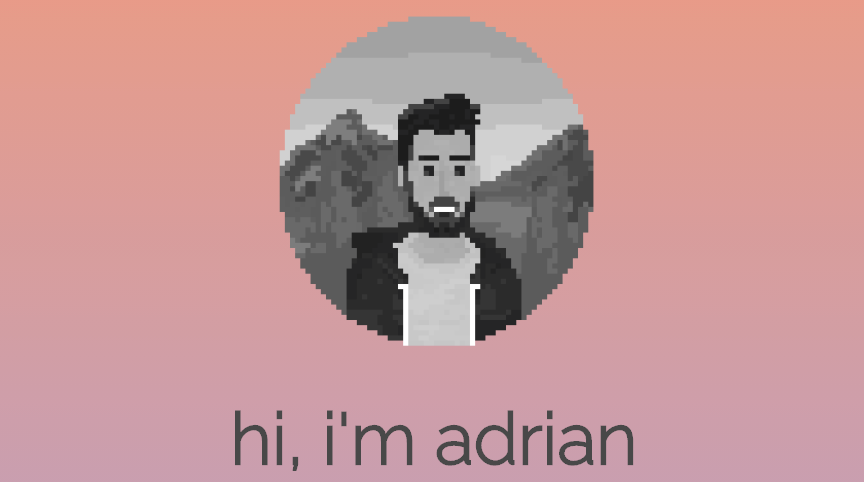
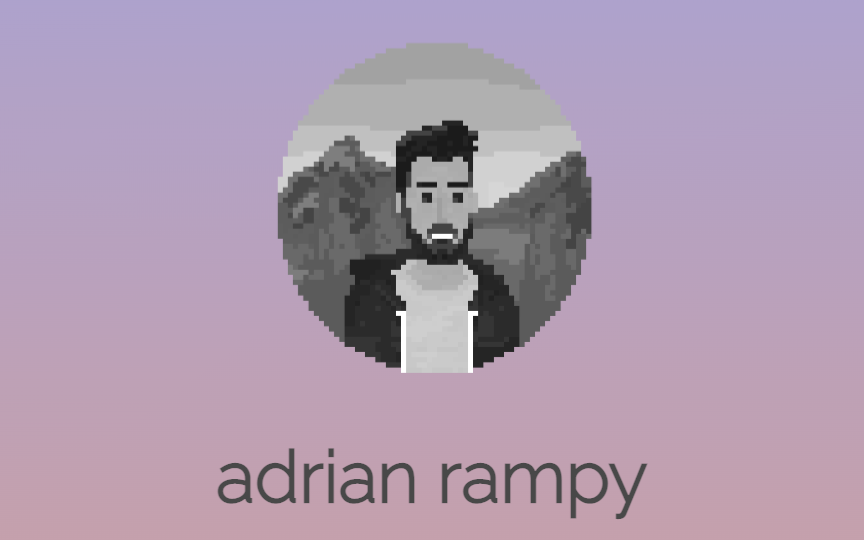
update info + iframe

diff --git a/index.html b/index.html
@@ -51,8 +51,8 @@
             </div>
             <img src="./images/prof.png" id="prof-pic" alt="headshot" />
             <div id="intro-text">
-              <h1>hi, i'm adrian</h1>
-              <p>i design and build things online</p>
+              <h1>adrian rampy</h1>
+              <p>software engineer</p>
             </div>
             <div id="button-box">
               <button id="about-btn">about</button>
@@ -76,7 +76,7 @@
               <img src="./images/techs/graphql.png" class="tech-img" alt="graphql" />
               <img src="./images/techs/python.png" class="tech-img" alt="python" />
               <img src="./images/techs/sass.png" class="tech-img" alt="sass" />
-              <img src="./images/techs/jquery.png" class="tech-img" alt="jquery" />
+              <img src="./images/techs/tailwind.png" class="tech-img" alt="tailwind" />
             </div>
             <div id="tech-name-box">
               <span id="tech-name"></span>
@@ -84,18 +84,12 @@
           </div>
           <div id="flip-card-back">
             <div id="about" style="display: none;">
-              <h1>a little about me</h1>
+              <h1>about me</h1>
               <p>
-                i was born and raised in the Northern California foothills, and after school in Washington state and
-                time spent living in New York, Mexico City, and San Francisco, i'm currently back to living in my small
-                mountain hometown, and loving it! when i'm not coding, i like to be outside: lots of hiking, with some
-                backpacking and camping trips, and spending time with family and friends over some good food. i also
-                like all kinds of games; board and card games, party and video games, puzzles, brain teasers, you name
-                it, i probably like it (or just haven't tried it yet). when i am writing code and building websites, i
-                hope it can be something to help us learn and grow, let us see the world around us in a new way, or give
-                us the opportunity to enhance a process we already know and care about. that's enough about me, though,
-                so head over to my <button id="about-contact">contact page</button> to reach out, and we can talk about
-                what you're interested in doing and looking forward to next.
+                i've always loved building things, whether it's a website, refurbishing some old furniture, or just a box a LEGOs. i also love being outside, spending time with
+                great people, and food. i first found coding through page design, and now enjoy all aspects of web development. when i'm not building, i'm learning how to build new
+                and different things. don't take this text's word for it, though, feel free head over to my <button id="about-contact">contact page</button> to reach out, and we
+                can keep the convo going. thanks for stopping by!
               </p>
               <button id="about-back">back</button>
             </div>
@@ -216,16 +210,14 @@
               <button id="projects-back">back</button>
             </div>
             <div id="resume" style="display: none;">
-              <div id="resume-frame">
-                <iframe
+              <div id="resume-frame-container">
+                <iframe id="resume-frame" frameBorder="0"
                   src="https://docs.google.com/document/d/e/2PACX-1vRwBObMC8Wu3T35mERVqdTRK_xyVD7ZAKH9nC9LcMh0qGXxqHIxvpa-H1QUXLDT8H_ZDZrZvvbm0G1a/pub?embedded=true">
                 </iframe>
               </div>
               <div id="resume-btns">
                 <button id="resume-back">back</button>
-                <a
-                  href="https://docs.google.com/document/d/1NmOAfy1hJpbXuEPgVQ2vwncQM52VaudWlLqLtX6H5X8/export?format=pdf"><button
-                    id="resume-download">download</button></a>
+                <a href="https://docs.google.com/document/d/1NmOAfy1hJpbXuEPgVQ2vwncQM52VaudWlLqLtX6H5X8/export?format=pdf"><button id="resume-download">download</button></a>
               </div>
             </div>
             <div id="contact" style="display: none;">
@@ -236,8 +228,7 @@
                     thank you for your message, i'll get back to you as soon as i can
                   </p>
                 </div>
-                <form method="post" class="gform"
-                  action="https://script.google.com/macros/s/AKfycbwNzX16AJTNlNQ08iRuJOD2xAdA-FOAZHeleg7P9Q/exec">
+                <form method="post" class="gform" action="https://script.google.com/macros/s/AKfycbwNzX16AJTNlNQ08iRuJOD2xAdA-FOAZHeleg7P9Q/exec">
                   <div class="fields">
                     <div id="top-fields">
                       <div class="field">
@@ -264,11 +255,9 @@
                 </form>
               </div>
               <div id="contact-links">
-                <a href="https://www.linkedin.com/in/adrian-rampy-1b8924198/"><img src="images/social/linkedin.png"
-                    alt="linkedin" /></a>
+                <a href="https://www.linkedin.com/in/adrian-rampy-1b8924198/"><img src="images/social/linkedin.png" alt="linkedin" /></a>
                 <a href="https://www.facebook.com/ahrampy/"><img src="images/social/facebook.png" alt="facebook" /></a>
-                <a href="https://www.instagram.com/ahrmpy/"><img src="images/social/instagram.png"
-                    alt="instagram" /></a>
+                <a href="https://www.instagram.com/ahrmpy/"><img src="images/social/instagram.png" alt="instagram" /></a>
                 <a href="https://github.com/ahrampy"><img src="images/social/github.png" alt="github" /></a>
               </div>
             </div>

diff --git a/css/main.css b/css/main.css
@@ -415,17 +415,23 @@ h1 {
 	transform: rotateZ(180deg);
 }
 
-#resume-frame {
-	position: relative;
-	overflow: hidden;
+#resume-frame-container {
+	display: flex;
+	justify-content: center;
+	align-items: center;
 	width: 60vw;
 	height: 80vh;
+}
+
+#resume-frame {
+	height: 100%;
+	width: 50vw;
 	z-index: 1;
 }
 
-#resume-frame > iframe {
-	width: 100%;
-	height: 100%;
+#resume-frame body {
+	display: flex;
+	justify-content: center;
 }
 
 #resume > button {
